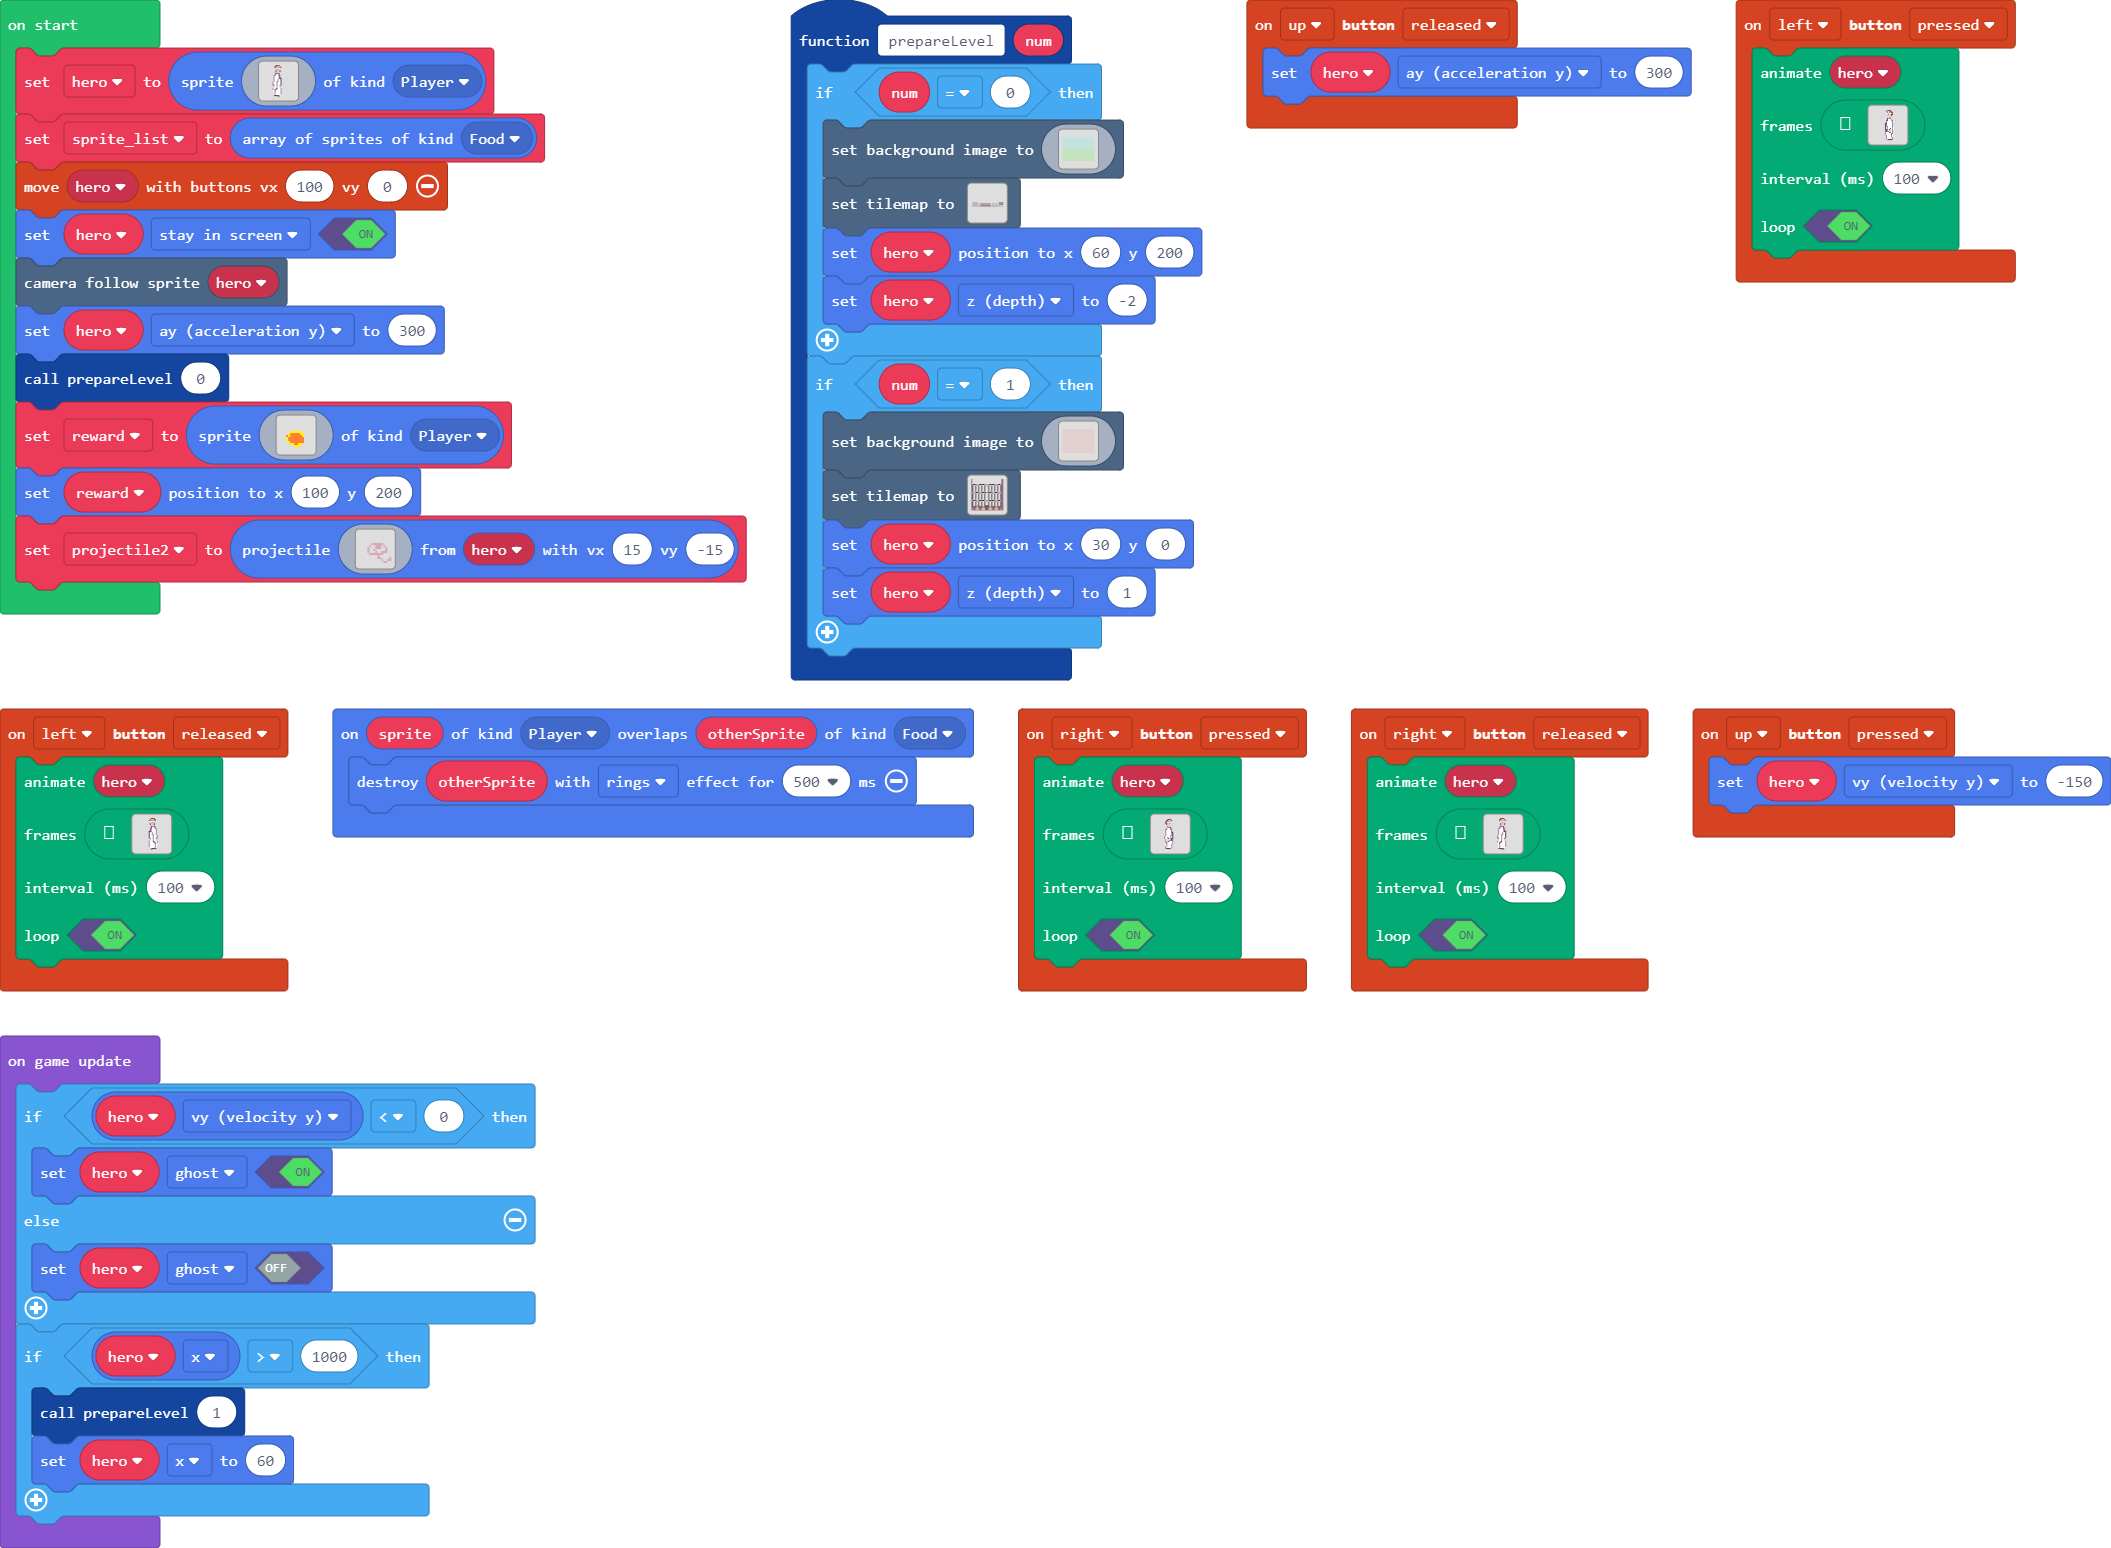
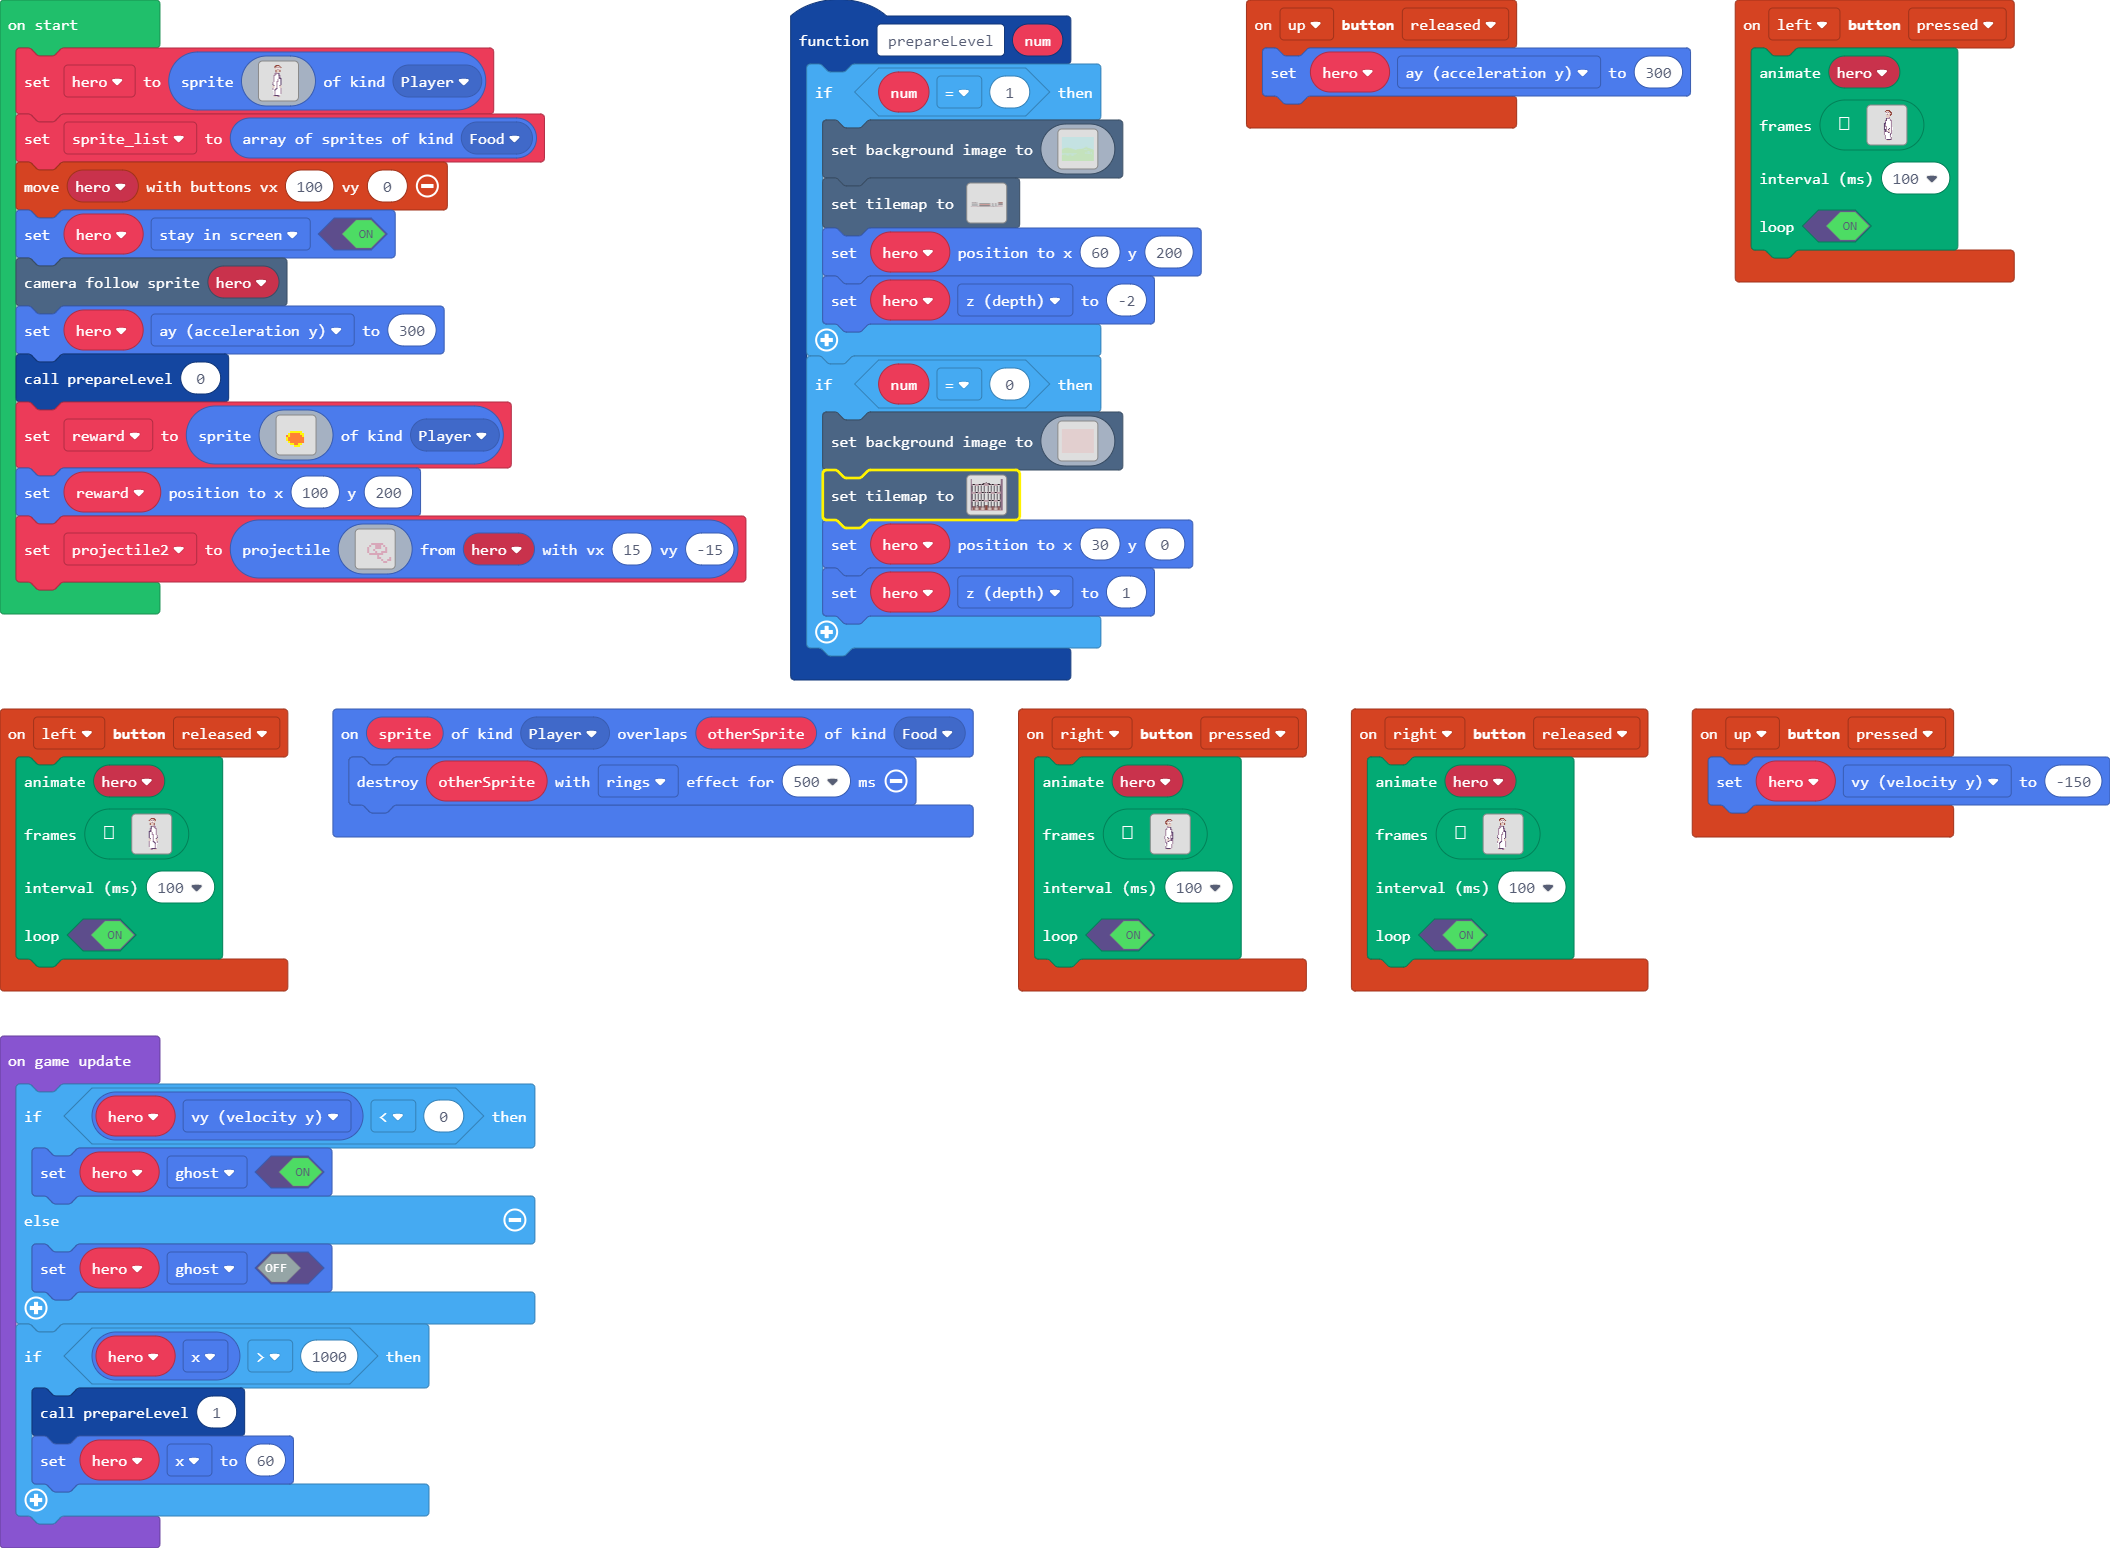
acroter

Changed region(s): [[0.3697, 0.2791, 0.4929, 0.3411], [0.6469, 0.4961, 0.6777, 0.5891]]

diff --git a/main.ts b/main.ts
@@ -1217,22 +1217,41 @@ e e e e e e e e e e e e e e e e
 `
     //% blockIdentity=images._tile
     export const tile66 = img`
-. . . 1 1 1 1 1 1 1 . . . . . . 
-. . . 1 1 1 1 1 1 1 . . . . . . 
-. . . 1 1 . 1 1 1 1 . . . . . . 
-. . 1 1 1 . 1 1 1 1 . . . . . . 
-. . 1 1 1 . 1 1 1 1 . . . . . . 
-. . 1 1 . . 1 1 1 1 . . . . . . 
-. . 1 1 . . 1 1 1 . . . . . . . 
-. . 1 1 1 . 1 1 1 . . . . . . . 
-. 1 1 1 1 1 1 1 1 . . . . . . . 
-. . 1 1 . 1 1 1 1 1 . . . . . . 
-. . 1 1 . 1 1 1 1 1 . . . . . . 
-. . 1 1 . 1 1 1 1 1 . . . . . . 
-. . 1 1 . 1 1 1 1 1 1 . . . . . 
-. . 1 1 . 1 1 . 1 1 1 . . . . . 
-. . 1 1 . 1 1 . 1 1 1 . . . . . 
-. . 1 1 . 1 1 . 1 1 1 . . . . . 
+. . . . . . c b b c . . . . . . 
+. . . . . c b d d b c . . . . . 
+. . c . c b d d d d b c . c . . 
+. . . c b d d b b d d b c . . . 
+. . . . c d b b b b d c . . . . 
+. . . c b d d b b d d b c . . . 
+. . . c d d d d d d d d c . . . 
+. c c b c c d d d d c c b c c . 
+c b d c d b c d d c b d c d b c 
+. c d d d c d d d d c d d d c . 
+. c b d b c d d d d c b d b c . 
+. . c b d d d b b d d d b c . . 
+. . c b d d d b b d d d b c . . 
+. . c b d d d b b d d d b c . . 
+. . c c b d d b b d d b c c . . 
+. . . . c c c b b c c c . . . . 
+`
+    //% blockIdentity=images._tile
+    export const tile67 = img`
+b b b b d d d d d d d d b b b b 
+d d d d c c c c c c c c d d d d 
+c c c c b b b b b b b b c c c c 
+b b b b d d d d d d d d b b b b 
+d d d d d d d d d d d d d d d d 
+d d d d d d d d d d d d d d d d 
+d d d d d d d d d d d d d d d d 
+d d d d d d d d d d d d d d d d 
+d d d d d d d d d d d d d d d d 
+d d d d d d d d d d d d d d d d 
+d d d d d d d d d d d d d d d d 
+d d d d d d d d d d d d d d d d 
+d d d d d d d d d d d d d d d d 
+b b b b b b b b b b b b b b b b 
+d d d d d d d d d d d d d d d d 
+c c c c c c c c c c c c c c c c 
 `
 }
 controller.up.onEvent(ControllerButtonEvent.Released, function () {
@@ -1472,7 +1491,7 @@ controller.right.onEvent(ControllerButtonEvent.Released, function () {
     )
 })
 function prepareLevel (num: number) {
-    if (num == 0) {
+    if (num == 1) {
         scene.setBackgroundImage(img`
 9 9 9 9 9 9 9 9 9 9 9 9 9 9 9 9 9 9 9 9 9 9 9 9 9 9 9 9 9 9 9 9 9 9 9 9 9 9 9 9 9 9 9 9 9 9 9 9 9 9 9 9 9 9 9 9 9 9 9 9 9 9 9 9 9 9 9 9 9 9 9 9 9 9 9 9 9 9 9 9 9 9 9 9 9 9 9 9 9 9 9 9 9 9 9 9 9 9 9 9 9 9 9 9 9 9 9 9 9 9 9 9 9 9 9 9 9 9 9 9 9 9 9 9 9 9 9 9 9 9 9 9 9 9 9 9 9 9 9 9 9 9 9 9 9 9 9 9 9 9 9 9 9 9 9 9 9 9 9 9 
 9 9 9 9 9 9 9 9 9 9 9 9 9 9 9 9 9 9 9 9 9 9 9 9 9 9 9 9 9 9 9 9 9 9 9 9 9 9 9 9 9 9 9 9 9 9 9 9 9 9 9 9 9 9 9 9 9 9 9 9 9 9 9 9 9 9 9 9 9 9 9 9 9 9 9 9 9 9 9 9 9 9 9 9 9 9 9 9 9 9 9 9 9 9 9 9 9 9 9 9 9 9 9 9 9 9 9 9 9 9 9 9 9 9 9 9 9 9 9 9 9 9 9 9 9 9 9 9 9 9 9 9 9 9 9 9 9 9 9 9 9 9 9 9 9 9 9 9 9 9 9 9 9 9 9 9 9 9 9 9 
@@ -1615,13 +1634,13 @@ function prepareLevel (num: number) {
 . 2 2 2 2 2 2 2 2 2 2 2 2 2 . 2 . . . . . . . . . . . . . . . . . . . . . . . . . . . . . . . . . . . . 2 . . . . . . . . . . . 
 2 2 2 2 . . . . . . . . 2 2 2 2 2 2 2 2 2 2 2 2 2 2 2 2 2 2 2 2 2 2 2 2 2 2 2 2 2 2 2 2 2 2 2 2 2 2 2 2 2 2 2 2 2 2 2 2 2 2 2 2 
 `,
-            [myTiles.tile0,sprites.castle.tileGrass2,sprites.castle.tileDarkGrass2,sprites.castle.tilePath5,myTiles.tile1,myTiles.tile2,myTiles.tile3,myTiles.tile4,myTiles.tile5,myTiles.tile6,myTiles.tile7,myTiles.tile9,myTiles.tile10,myTiles.tile11,myTiles.tile12,myTiles.tile13,myTiles.tile14,myTiles.tile15,myTiles.tile16,myTiles.tile17,myTiles.tile19,myTiles.tile20,myTiles.tile21,myTiles.tile22,myTiles.tile23,myTiles.tile24,myTiles.tile25,myTiles.tile26,myTiles.tile27,myTiles.tile28,myTiles.tile29,myTiles.tile30,myTiles.tile31,myTiles.tile32,myTiles.tile33,myTiles.tile34,myTiles.tile35,myTiles.tile36,myTiles.tile37,myTiles.tile38,myTiles.tile39,myTiles.tile40,myTiles.tile41,myTiles.tile42,myTiles.tile43,myTiles.tile44,myTiles.tile45,myTiles.tile46,myTiles.tile47,myTiles.tile48,myTiles.tile49,myTiles.tile50,myTiles.tile51,myTiles.tile52,myTiles.tile53,myTiles.tile54,myTiles.tile55,myTiles.tile56,myTiles.tile57,myTiles.tile58,myTiles.tile59,myTiles.tile60,myTiles.tile61,myTiles.tile62,myTiles.tile63,myTiles.tile64,myTiles.tile65,myTiles.tile66],
+            [myTiles.tile0,sprites.castle.tileGrass2,sprites.castle.tileDarkGrass2,sprites.castle.tilePath5,myTiles.tile1,myTiles.tile2,myTiles.tile3,myTiles.tile4,myTiles.tile5,myTiles.tile6,myTiles.tile7,myTiles.tile9,myTiles.tile10,myTiles.tile11,myTiles.tile12,myTiles.tile13,myTiles.tile14,myTiles.tile15,myTiles.tile16,myTiles.tile17,myTiles.tile19,myTiles.tile20,myTiles.tile21,myTiles.tile22,myTiles.tile23,myTiles.tile24,myTiles.tile25,myTiles.tile26,myTiles.tile27,myTiles.tile28,myTiles.tile29,myTiles.tile30,myTiles.tile31,myTiles.tile32,myTiles.tile33,myTiles.tile34,myTiles.tile35,myTiles.tile36,myTiles.tile37,myTiles.tile38,myTiles.tile39,myTiles.tile40,myTiles.tile41,myTiles.tile42,myTiles.tile43,myTiles.tile44,myTiles.tile45,myTiles.tile46,myTiles.tile47,myTiles.tile48,myTiles.tile49,myTiles.tile50,myTiles.tile51,myTiles.tile52,myTiles.tile53,myTiles.tile54,myTiles.tile55,myTiles.tile56,myTiles.tile57,myTiles.tile58,myTiles.tile59,myTiles.tile60,myTiles.tile61,myTiles.tile62,myTiles.tile63,myTiles.tile64,myTiles.tile65,myTiles.tile66,myTiles.tile67],
             TileScale.Sixteen
         ))
         hero.setPosition(60, 200)
         hero.z = -2
     }
-    if (num == 1) {
+    if (num == 0) {
         scene.setBackgroundImage(img`
 3 3 3 3 3 3 3 3 3 3 3 3 3 3 3 3 3 3 3 3 3 3 3 3 3 3 3 3 3 3 3 3 3 3 3 3 3 3 3 3 3 3 3 3 3 3 3 3 3 3 3 3 3 3 3 3 3 3 3 3 3 3 3 3 3 3 3 3 3 3 3 3 3 3 3 3 3 3 3 3 3 3 3 3 3 3 3 3 3 3 3 3 3 3 3 3 3 3 3 3 3 3 3 3 3 3 3 3 3 3 3 3 3 3 3 3 3 3 3 3 3 3 3 3 3 3 3 3 3 3 3 3 3 3 3 3 3 3 3 3 3 3 3 3 3 3 3 3 3 3 3 3 3 3 3 3 3 3 3 3 
 3 3 3 3 3 3 3 3 3 3 3 3 3 3 3 3 3 3 3 3 3 3 3 3 3 3 3 3 3 3 3 3 3 3 3 3 3 3 3 3 3 3 3 3 3 3 3 3 3 3 3 3 3 3 3 3 3 3 3 3 3 3 3 3 3 3 3 3 3 3 3 3 3 3 3 3 3 3 3 3 3 3 3 3 3 3 3 3 3 3 3 3 3 3 3 3 3 3 3 3 3 3 3 3 3 3 3 3 3 3 3 3 3 3 3 3 3 3 3 3 3 3 3 3 3 3 3 3 3 3 3 3 3 3 3 3 3 3 3 3 3 3 3 3 3 3 3 3 3 3 3 3 3 3 3 3 3 3 3 3 
@@ -1745,42 +1764,42 @@ function prepareLevel (num: number) {
 3 3 3 3 3 3 3 3 3 3 3 3 3 3 3 3 3 3 3 3 3 3 3 3 3 3 3 3 3 3 3 3 3 3 3 3 3 3 3 3 3 3 3 3 3 3 3 3 3 3 3 3 3 3 3 3 3 3 3 3 3 3 3 3 3 3 3 3 3 3 3 3 3 3 3 3 3 3 3 3 3 3 3 3 3 3 3 3 3 3 3 3 3 3 3 3 3 3 3 3 3 3 3 3 3 3 3 3 3 3 3 3 3 3 3 3 3 3 3 3 3 3 3 3 3 3 3 3 3 3 3 3 3 3 3 3 3 3 3 3 3 3 3 3 3 3 3 3 3 3 3 3 3 3 3 3 3 3 3 3 
 `)
         tiles.setTilemap(tiles.createTilemap(
[2 lines of base64/hex data omitted]
             img`
-. . . . . . . . . . . . . . . . . . . . . . . . . . . . . . . . 
-. . . . . . . . . . . . . . . . . . . . . . . . . . . . . . . . 
-. . . . . . . . . . . . . . . . . . . . . . . . . . . . . . . . 
-. . . . . . . . . . . . . . . . . . . . . . . . . . . . . . . . 
-. . . . . . . . . . . . . . . . . . . . . . . . . . . . . . . . 
+2 . . . . . . . . . . . . . . . . . . . . . . . . . . . . . 2 2 
+2 . . . . . . . . . . . . . . . . . . . . . . . . . . . . . 2 2 
+2 . . . . . . . . . . . . . . . . . . . . . . . . . . . . . 2 2 
+2 . . . . . . . . . . . . . . . . . . . . . . . . . . . . . 2 2 
+2 . . . . . . . . . . . . . . . . . . . . . . . . . . . . . 2 2 
 2 2 . . 2 2 2 2 . . 2 . . 2 2 2 2 2 . . 2 . . 2 2 2 2 . . 2 2 2 
-. . . . . . . . . . . . . . . . . . . . . . . . . . . . . . . . 
-. . . . . . . . . . . . . . . . . . . . . . . . . . . . . . . . 
-. . . . . . . . . . . . . . . . . . . . . . . . . . . . . . . . 
-. . . . . . . . . . . . . . . . . . . . . . . . . . . . . . . . 
-. . . . . . . . . . . . . . . . . . . . . . . . . . . . . . . . 
-. . . . . . . . . . . . . . . . . . . . . . . . . . . . . . . . 
-. . . . . . . . . . . . . . . . . . . . . . . . . . . . . . . . 
+2 . . . . . . . . . . . . . . . . . . . . . . . . . . . . . 2 2 
+2 . . . . . . . . . . . . . . . . . . . . . . . . . . . . . 2 2 
+2 . . . . . . . . . . . . . . . . . . . . . . . . . . . . . 2 2 
+2 . . . . . . . . . . . . . . . . . . . . . . . . . . . . . 2 2 
+2 . . . . . . . . . . . . . . . . . . . . . . . . . . . . . 2 2 
+2 . . . . . . . . . . . . . . . . . . . . . . . . . . . . . 2 2 
+2 . . . . . . . . . . . . . . . . . . . . . . . . . . . . . 2 2 
 2 2 2 2 2 . . 2 2 2 2 . . 2 . . . 2 . . 2 2 2 2 . . 2 2 2 2 2 2 
-. . . . . . . . . . . . . . . . . . . . . . . . . . . . . . . . 
-. . . . . . . . . . . . . . . . . . . . . . . . . . . . . . . . 
-. . . . . . . . . . . . . . . . . . . . . . . . . . . . . . . . 
-. . . . . . . . . . . . . . . . . . . . . . . . . . . . . . . . 
-. . . . . . . . . . . . . . . . . . . . . . . . . . . . . . . . 
-. . . . . . . . . . . . . . . . . . . . . . . . . . . . . . . . 
-2 . . . . . . . . . . . . . . . . . . . . . . . . . . . . . . . 
+2 . . . . . . . . . . . . . . . . . . . . . . . . . . . . . 2 2 
+2 . . . . . . . . . . . . . . . . . . . . . . . . . . . . . 2 2 
+2 . . . . . . . . . . . . . . . . . . . . . . . . . . . . . 2 2 
+2 . . . . . . . . . . . . . . . . . . . . . . . . . . . . . 2 2 
+2 . . . . . . . . . . . . . . . . . . . . . . . . . . . . . 2 2 
+2 . . . . . . . . . . . . . . . . . . . . . . . . . . . . . 2 2 
+2 . . . . . . . . . . . . . . . . . . . . . . . . . . . . . 2 2 
 2 2 . . 2 2 2 2 . . 2 . . 2 2 2 2 2 . . 2 . . 2 2 2 2 . . 2 2 2 
-. . . . . . . . . . . . . . . . . . . . . . . . . . . . . . . . 
-. . . . . . . . . . . . . . . . . . . . . . . . . . . . . . . . 
-. . . . . . . . . . . . . . . . . . . . . . . . . . . . . . . . 
-. . . . . . . . . . . . . . . . . . . . . . . . . . . . . . . . 
-. . . . . . . . . . . . . . 2 2 2 . . . . . . . . . . . . . . . 
-. . 2 2 . . . . 2 2 . . . . . . . . . . . 2 2 . . . . 2 2 . . . 
-. . . . . . . . . . . . . . . . . . . . . . . . . . . . . . . . 
+2 . . . . . . . . . . . . . . . . . . . . . . . . . . . . . 2 2 
+2 . . . . . . . . . . . . . . . . . . . . . . . . . . . . . 2 2 
+2 . . . . . . . . . . . . . . . . . . . . . . . . . . . . . 2 2 
+2 . . . . . . . . . . . . . . . . . . . . . . . . . . . . . 2 2 
+2 . . . . . . . . . . . . . 2 2 2 . . . . . . . . . . . . . 2 2 
+2 . 2 2 . . . . 2 2 . . . . . . . . . . . 2 2 . . . . 2 2 . 2 2 
+2 . . . . . . . . . . . . . . . . . . . . . . . . . . . . . 2 2 
 2 2 . . 2 2 2 2 . . 2 2 2 2 . . . 2 2 2 2 . . 2 2 2 2 . . 2 2 2 
-. . . . . . . . . . . . . . . . . . . . . . . . . . . . . . . . 
+2 . . . . . . . . . . . . . . . . . . . . . . . . . . . . . 2 2 
 2 2 2 2 2 2 2 2 2 2 2 2 2 2 2 2 2 2 2 2 2 2 2 2 2 2 2 2 2 2 2 2 
 `,
-            [myTiles.tile0,sprites.castle.tileGrass2,sprites.castle.tileDarkGrass2,sprites.castle.tilePath5,myTiles.tile1,myTiles.tile2,myTiles.tile3,myTiles.tile4,myTiles.tile5,myTiles.tile6,myTiles.tile7,myTiles.tile9,myTiles.tile10,myTiles.tile11,myTiles.tile12,myTiles.tile13,myTiles.tile14,myTiles.tile15,myTiles.tile16,myTiles.tile17,myTiles.tile19,myTiles.tile20,myTiles.tile21,myTiles.tile22,myTiles.tile23,myTiles.tile24,myTiles.tile25,myTiles.tile26,myTiles.tile27,myTiles.tile28,myTiles.tile29,myTiles.tile30,myTiles.tile31,myTiles.tile32,myTiles.tile33,myTiles.tile34,myTiles.tile35,myTiles.tile36,myTiles.tile37,myTiles.tile38,myTiles.tile39,myTiles.tile40,myTiles.tile41,sprites.castle.tileGrass1,myTiles.tile42,myTiles.tile43,myTiles.tile44,myTiles.tile45,myTiles.tile46,myTiles.tile47,myTiles.tile48,myTiles.tile49,myTiles.tile50,myTiles.tile51,myTiles.tile52,myTiles.tile53,myTiles.tile54,myTiles.tile55,myTiles.tile56,myTiles.tile57,myTiles.tile58,myTiles.tile59,myTiles.tile60,myTiles.tile61,myTiles.tile62,myTiles.tile63,myTiles.tile64,myTiles.tile65,myTiles.tile66],
+            [myTiles.tile0,sprites.castle.tileGrass2,sprites.castle.tileDarkGrass2,sprites.castle.tilePath5,myTiles.tile1,myTiles.tile2,myTiles.tile3,myTiles.tile4,myTiles.tile5,myTiles.tile6,myTiles.tile7,myTiles.tile9,myTiles.tile10,myTiles.tile11,myTiles.tile12,myTiles.tile13,myTiles.tile14,myTiles.tile15,myTiles.tile16,myTiles.tile17,myTiles.tile19,myTiles.tile20,myTiles.tile21,myTiles.tile22,myTiles.tile23,myTiles.tile24,myTiles.tile25,myTiles.tile26,myTiles.tile27,myTiles.tile28,myTiles.tile29,myTiles.tile30,myTiles.tile31,myTiles.tile32,myTiles.tile33,myTiles.tile34,myTiles.tile35,myTiles.tile36,myTiles.tile37,myTiles.tile38,myTiles.tile39,myTiles.tile40,myTiles.tile41,sprites.castle.tileGrass1,myTiles.tile42,myTiles.tile43,myTiles.tile44,myTiles.tile45,myTiles.tile46,myTiles.tile47,myTiles.tile48,myTiles.tile49,myTiles.tile50,myTiles.tile51,myTiles.tile52,myTiles.tile53,myTiles.tile54,myTiles.tile55,myTiles.tile56,myTiles.tile57,myTiles.tile58,myTiles.tile59,myTiles.tile60,myTiles.tile61,myTiles.tile62,myTiles.tile63,myTiles.tile64,myTiles.tile65,myTiles.tile66,myTiles.tile67],
             TileScale.Sixteen
         ))
         hero.setPosition(30, 0)
